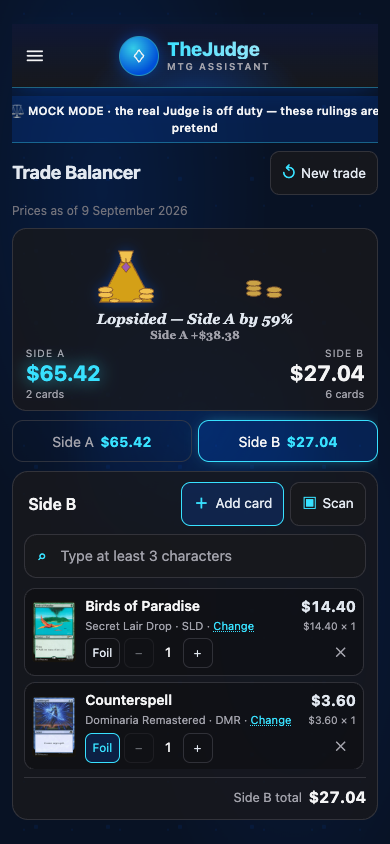
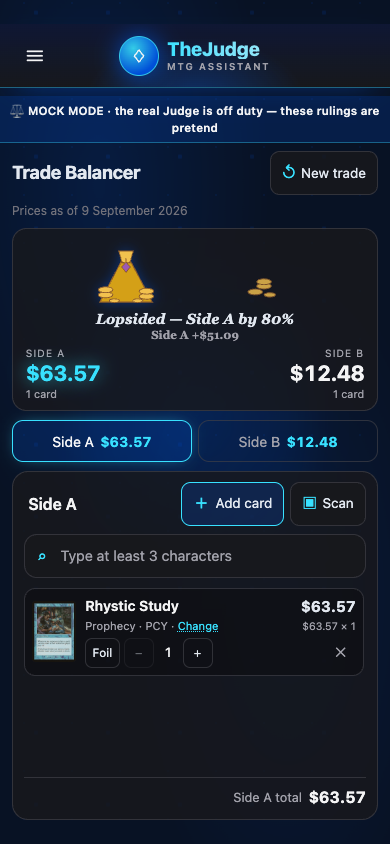
fix(ui-reimagining-build): review 1 — slice O Trade Balancer header clipped at desktop
Finding 1 (Critical, shared with slice P): at 1440x900 .page-content-wide-fit
set overflow:hidden on a column narrower (56rem) than the viewport, clipping
the full-bleed header's negative-margin breakout to that column's own edges —
no header, no (Menu Menu button reachable on Trade Balancer. Removed
overflow:hidden from .page-content-wide-fit; .page-shell-fit (one level up,
viewport-wide) still clips, so the no-page-scroll fit (O3) is unchanged.

diff --git a/apps/frontend/src/index.css b/apps/frontend/src/index.css
@@ -91,20 +91,31 @@
   flex-direction: column;
 }
 
+/* Look-matching pass (slice O/P, review 1 fix — finding 1): no `overflow:
+   hidden` here any more. The sticky `.app-header` (below) breaks out to full
+   viewport width with a negative inline margin, relying on no clipping
+   ancestor standing between it and the viewport edge; this box's own
+   `max-width` (56rem on Trade Balancer, 36rem on the scanner below) is
+   narrower than the viewport at 1440px, so an `overflow: hidden` here clipped
+   the header to this box's own narrower edges — no ☰, no full-bleed header,
+   exactly the Critical finding. `.page-shell-fit` (above) still clips at
+   `<main>`'s own edges, which are the viewport's edges (no side padding wide
+   enough to matter at these widths), so the page still never scrolls — the
+   clip just moved one box up, where it costs nothing to look at. */
 .page-content-wide-fit {
   max-width: min(56rem, 94vw);
   height: 100%;
   min-height: 0;
-  overflow: hidden;
 }
 
 /* Look-matching pass (slice P): the scanner's own fit, at the "narrow" 36rem
    width (`.page-content-narrow` already sets `max-width`; this only adds the
-   height-fit behaviour `.page-content-wide-fit` uses above). */
+   height-fit behaviour `.page-content-wide-fit` uses above). Review 1 fix
+   (finding 1): no `overflow: hidden` here either, for the same reason as
+   `.page-content-wide-fit` above — `.page-shell-fit` keeps the no-scroll fit. */
 .page-content-narrow-fit {
   height: 100%;
   min-height: 0;
-  overflow: hidden;
 }
 
 /* Look-matching pass (slice L): the sticky, full-bleed banner header
@@ -266,6 +277,14 @@
   overflow: hidden;
   border-radius: inherit;
   pointer-events: none;
+  /* Look-matching pass (slice L, review 1 fix — finding 2): `z-index: auto` (the
+     prior value) let `.app-header`'s own `z-index: 20` (sticky, a stacking
+     context) paint above whatever the Menu drawer portals in here, because this
+     box's children are compared in `.app-header`'s own ancestor stacking context,
+     not a new one of this box's own. One above the header's 20 is enough to put
+     the portaled drawer and its backdrop back on top, matching the mockup (the
+     Ask a Question row was unreachable and History was clipped in half). */
+  z-index: 21;
 }
 
 /* Look-matching pass (slice L): no corner to flush against any more — the

diff --git a/PRD/work/ui-reimagining-build/slice-o.evidence.md b/PRD/work/ui-reimagining-build/slice-o.evidence.md
@@ -124,3 +124,27 @@ its one pre-existing line (`M scripts/lib/boundary-rules.mjs`).
   `Change`/`only printing` split, already a pattern `PrintingPicker.tsx` had
   for the picker's own header count). No test asserted the disabled-button
   state this replaces.
+
+### Review 1 fix (2026-10-02)
+
+Review loop 1 (`REVIEW-1.md`) returned finding 1 (Critical, shared with slice
+P): at 1440×900 the full-bleed sticky header and its ☰ were clipped, with no
+Menu reachable on Trade Balancer. Root cause confirmed exactly as the
+reviewer named it: `.page-content-wide-fit` (`apps/frontend/src/index.css`)
+set `overflow: hidden` on the column the header sits inside, and that
+column's own `max-width: min(56rem, 94vw)` is narrower than the viewport at
+1440px — the header's full-bleed negative-margin breakout was clipped to
+this box's own edges instead of reaching the viewport edge. Fixed by
+removing `overflow: hidden` from `.page-content-wide-fit`; `.page-shell-fit`
+(the `<main>` one level up) still clips at its own edges, which coincide
+with the viewport's, so the no-page-scroll fit (O3) is unchanged and the
+header now reaches the real viewport edge.
+
+Verified live at 1440×900: the header is full-bleed with ☰ at its left, the
+page still fits the viewport with no scrollbar, and the scale/verdict panel
+and both sides render exactly as before. Recaptured
+`o/trade-balancer-build-{390x844,1440x900}.png` (390×844 was already correct
+per the reviewer and is unchanged by this fix; recaptured anyway for a
+consistent pair). O3 re-verified true by the recapture.
+
+Finding closed.
